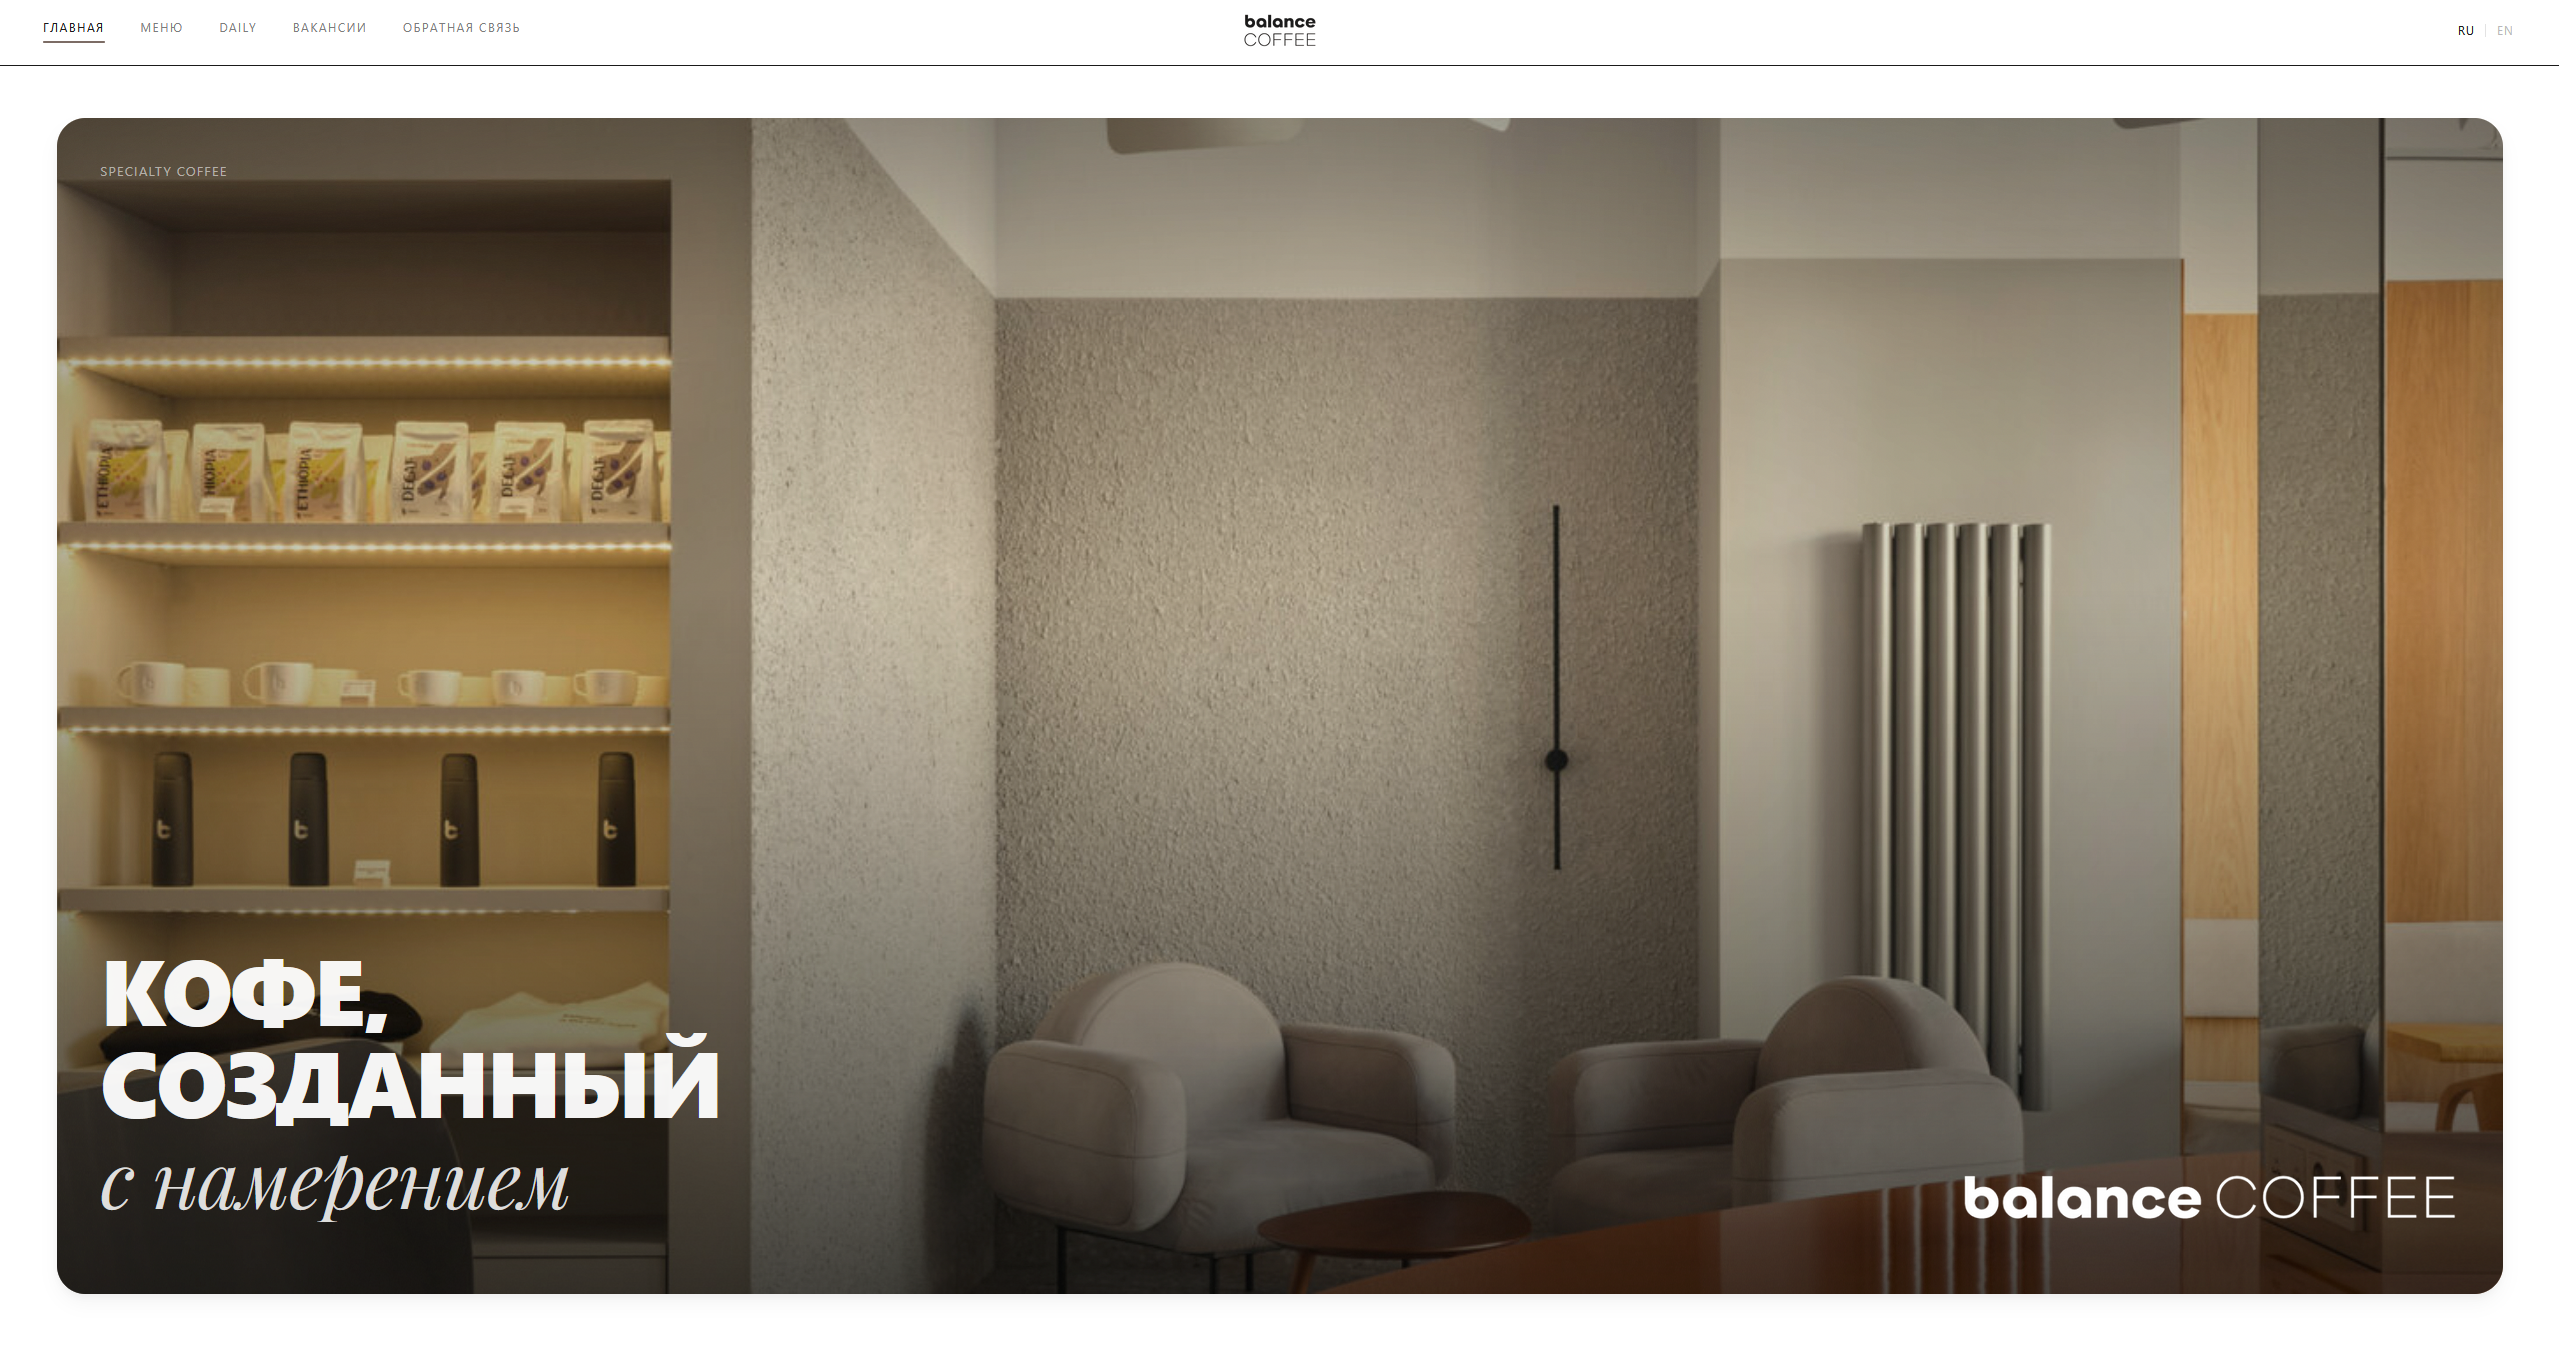
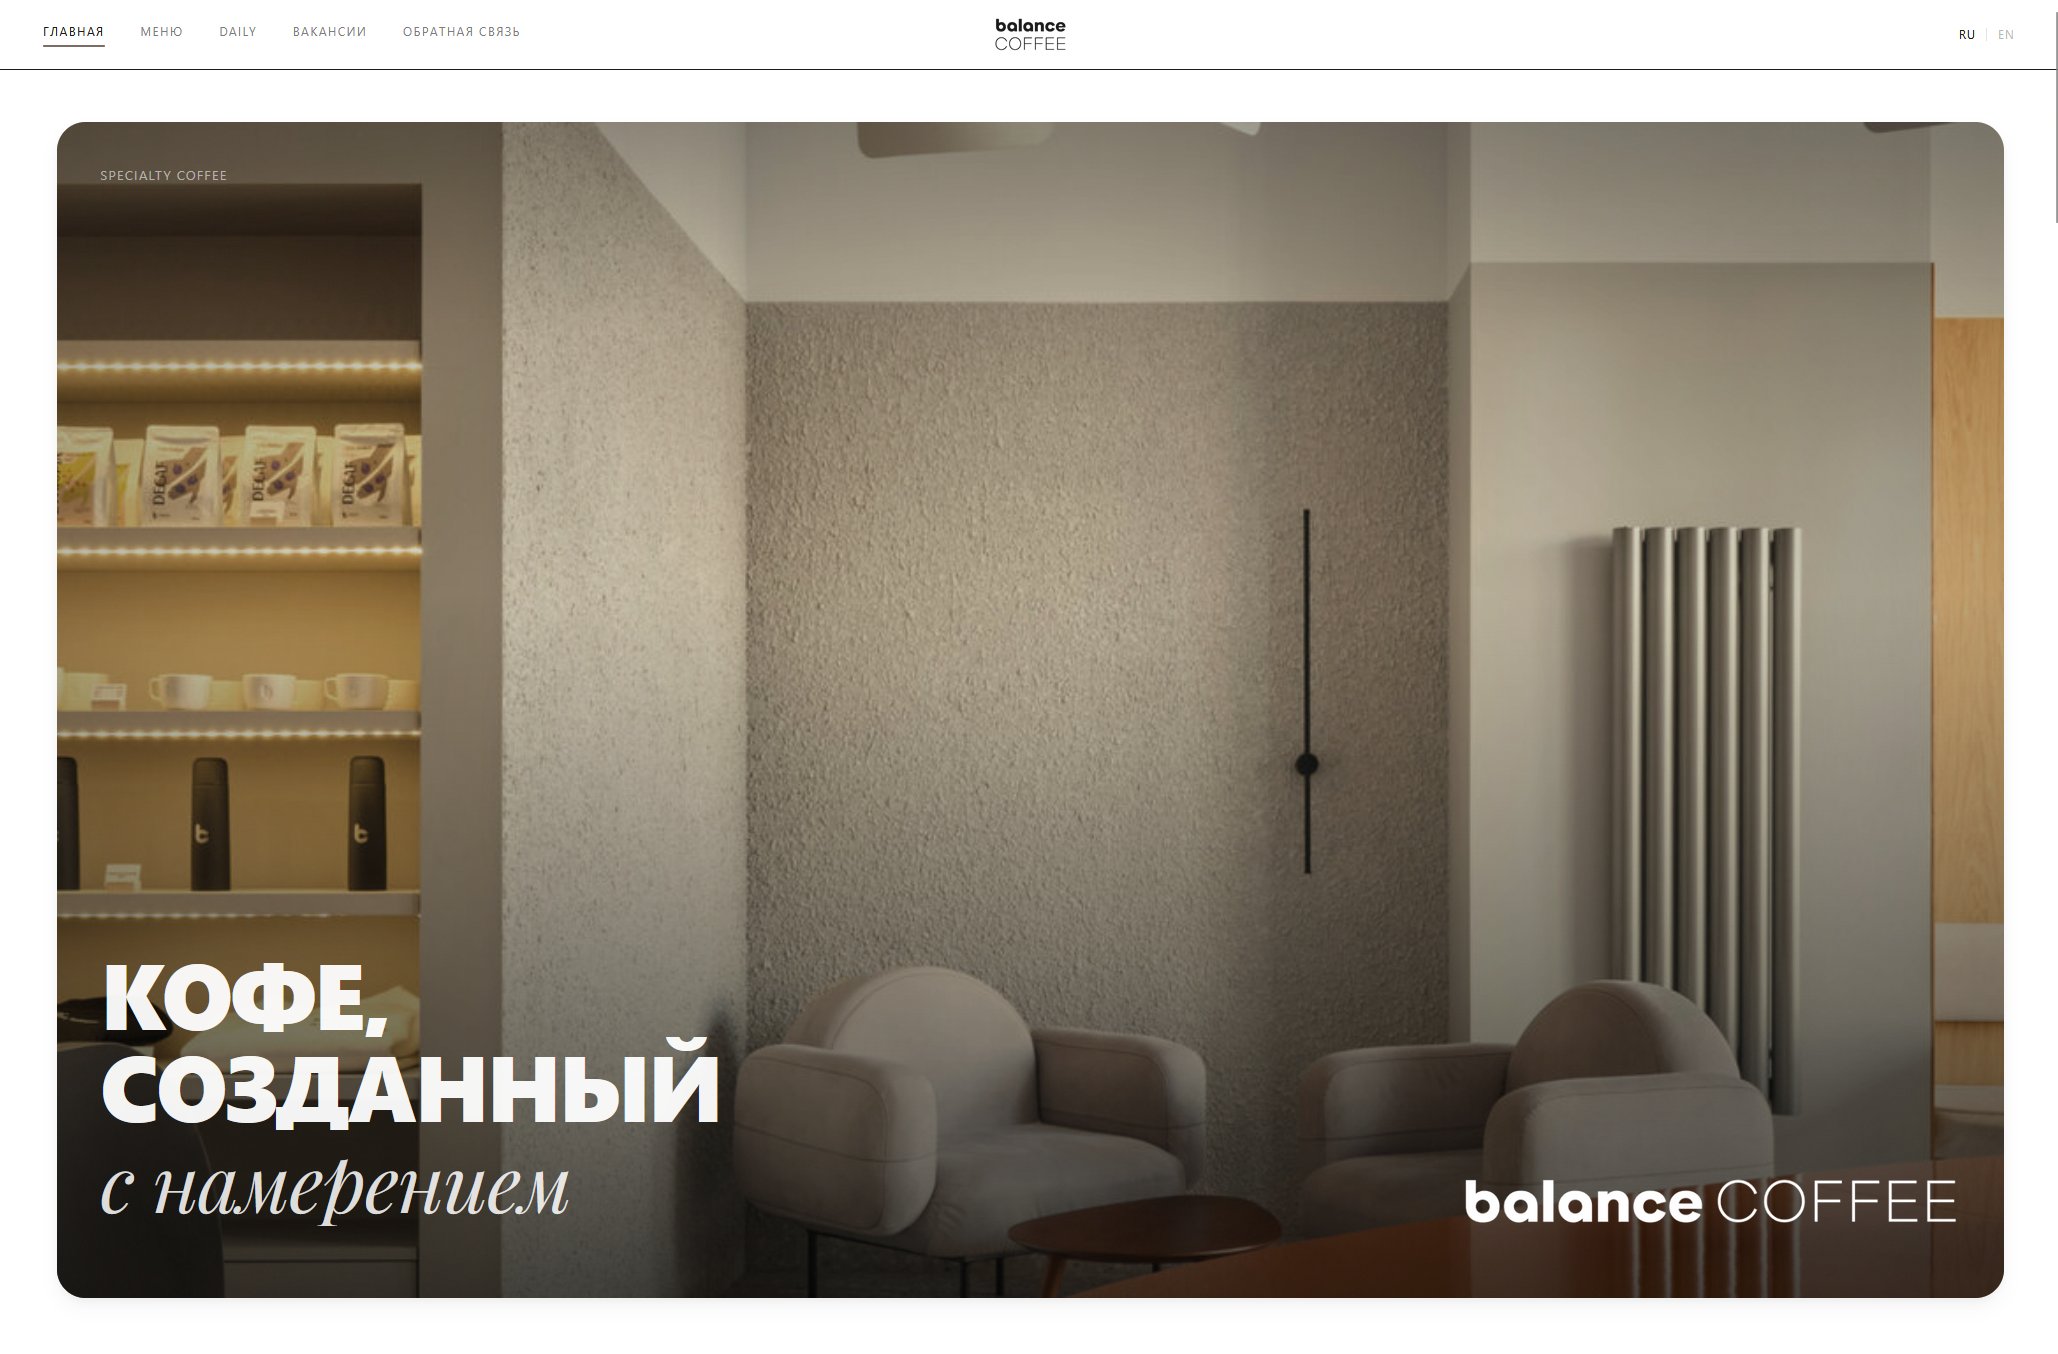
Updated projects

diff --git a/src/data/projects.ts b/src/data/projects.ts
@@ -8,14 +8,14 @@ export interface Project {
 }
 
 export const projects: Project[] = [
-  { id: 1, image: '/projects/galereya.png', name: 'Галерея', category: 'Торговый центр', description: 'Официальный сайт торгового центра', link: 'https://galereya-trc.ru' },
-  { id: 2, image: '/projects/masterauto.png', name: 'МастерАвто', category: 'Автосервис', description: 'Официальный сайт автосервиса', link: 'https://masterauto-07.ru' },
-  { id: 3, image: '/projects/chocodips.png', name: 'ChocoDips', category: 'Кафе · Концепт', description: 'Концептуальный сайт для кафе', link: 'https://choco-dips.ru' },
-  { id: 4, image: '/projects/history.png', name: 'History', category: 'Ресторан · Концепт', description: 'Концептуальный сайт для ресторана', link: 'https://history-nalchik.ru' },
-  { id: 5, image: '/projects/okaraf.png', name: 'OKARAF', category: 'Портфолио', description: 'Официальный сайт-портфолио', link: 'https://okaraf.ru' },
-  { id: 6, image: '/projects/mozaika.png', name: 'Мозаика', category: 'Образование', description: 'Образовательная платформа', link: 'https://mozaika.netlify.app' },
-  { id: 7, image: '/projects/pulse.jpeg', name: 'Pulse', category: 'Туризм', description: 'Telegram-приложение туристического агентства', link: 'https://t.me/pulse_t_bot' },
-  { id: 8, image: '/projects/kabardinobalkaria.png', name: 'Кабардино-Балкария', category: 'Республика · Концепт', description: 'Концептуальный сайт республики', link: 'https://kabardinobalkaria.com' },
-  { id: 9, image: '/projects/cerber.png', name: 'Cerber', category: 'Мода', description: 'Официальный сайт бренда одежды', link: 'https://cerberkavkaz.ru' },
-  { id: 10, image: '/projects/playtime.png', name: 'Playtime', category: 'Соревнование', description: 'Официальный сайт регионального конкурса по программированию', link: 'https://playtimekbsu.ru' },
+  { id: 1, image: '/projects/balancecoffee.png', name: 'BALANCE COFFEE', category: 'Кафе · Концепт', description: 'Концептуальный сайт для кофейни', link: 'https://balance-coffee.ru' },
+  { id: 2, image: '/projects/galereya.png', name: 'Галерея', category: 'Торговый центр', description: 'Официальный сайт торгового центра', link: 'https://galereya-trc.ru' },
+  { id: 3, image: '/projects/masterauto.png', name: 'МастерАвто', category: 'Автосервис', description: 'Официальный сайт автосервиса', link: 'https://masterauto-07.ru' },
+  { id: 4, image: '/projects/chocodips.png', name: 'ChocoDips', category: 'Кафе · Концепт', description: 'Концептуальный сайт для кафе', link: 'https://choco-dips.ru' },
+  { id: 5, image: '/projects/history.png', name: 'History', category: 'Ресторан · Концепт', description: 'Концептуальный сайт для ресторана', link: 'https://history-nalchik.ru' },
+  { id: 6, image: '/projects/okaraf.png', name: 'OKARAF', category: 'Портфолио', description: 'Официальный сайт-портфолио', link: 'https://okaraf.ru' },
+  { id: 7, image: '/projects/mozaika.png', name: 'Мозаика', category: 'Образование', description: 'Образовательная платформа', link: 'https://mozaika.netlify.app' },
+  { id: 8, image: '/projects/pulse.jpeg', name: 'Pulse', category: 'Туризм', description: 'Telegram-приложение туристического агентства', link: 'https://t.me/pulse_t_bot' },
+  { id: 9, image: '/projects/kabardinobalkaria.png', name: 'Кабардино-Балкария', category: 'Республика · Концепт', description: 'Концептуальный сайт республики', link: 'https://kabardinobalkaria.com' },
+  { id: 10, image: '/projects/cerber.png', name: 'Cerber', category: 'Мода', description: 'Официальный сайт бренда одежды', link: 'https://cerberkavkaz.ru' },
 ];
